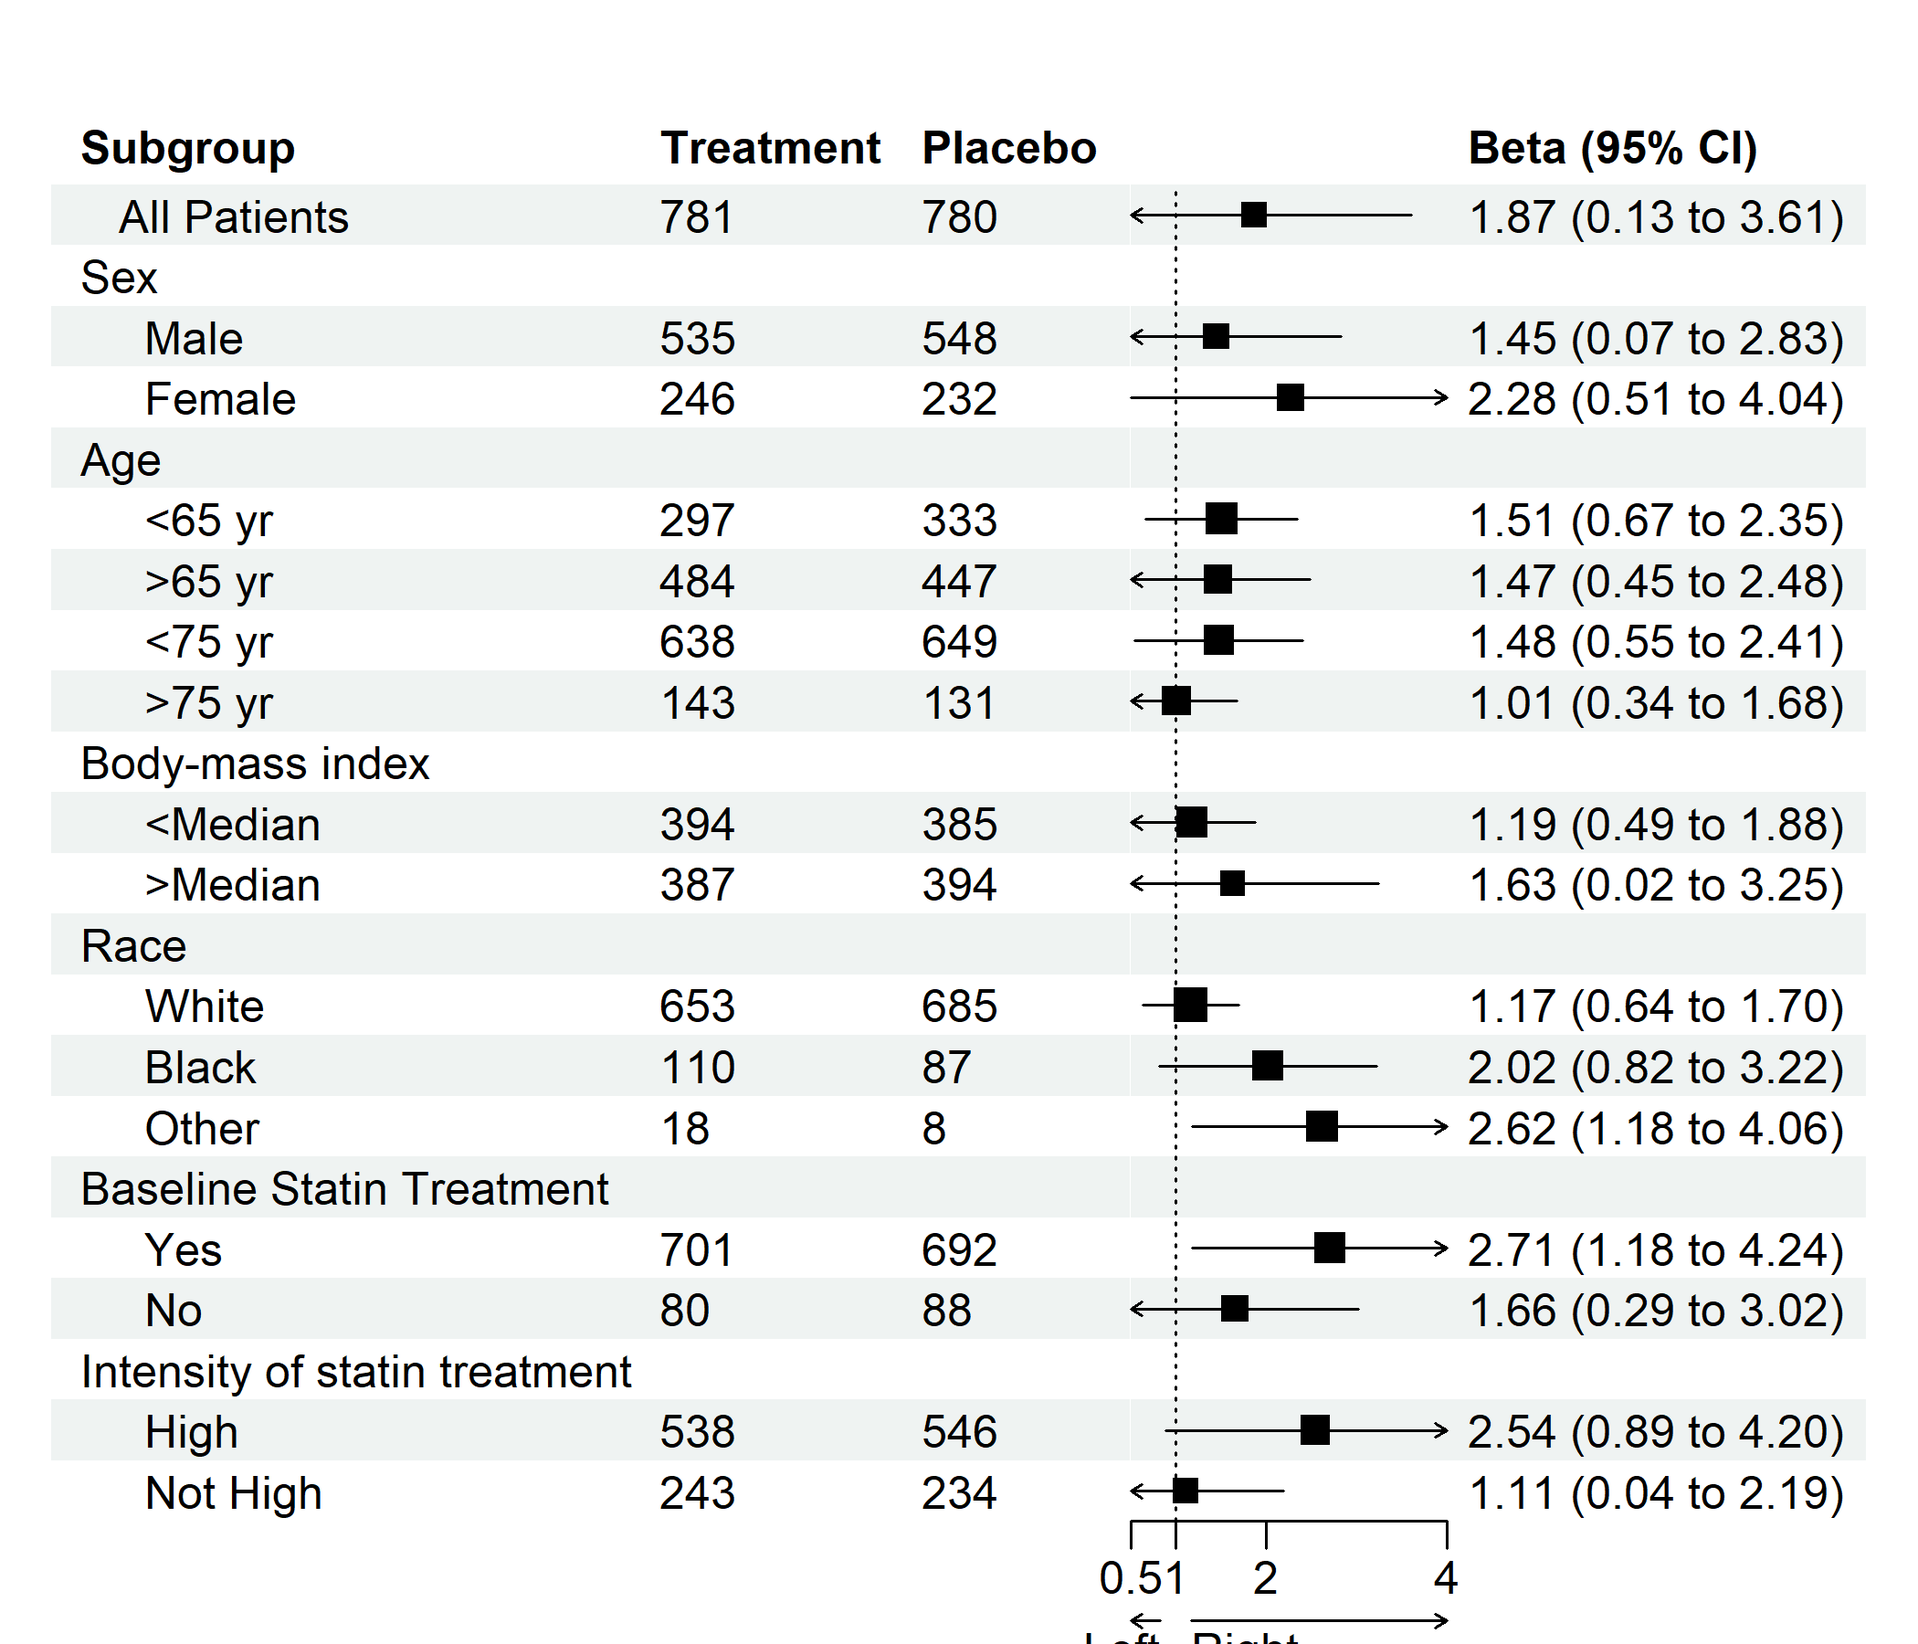
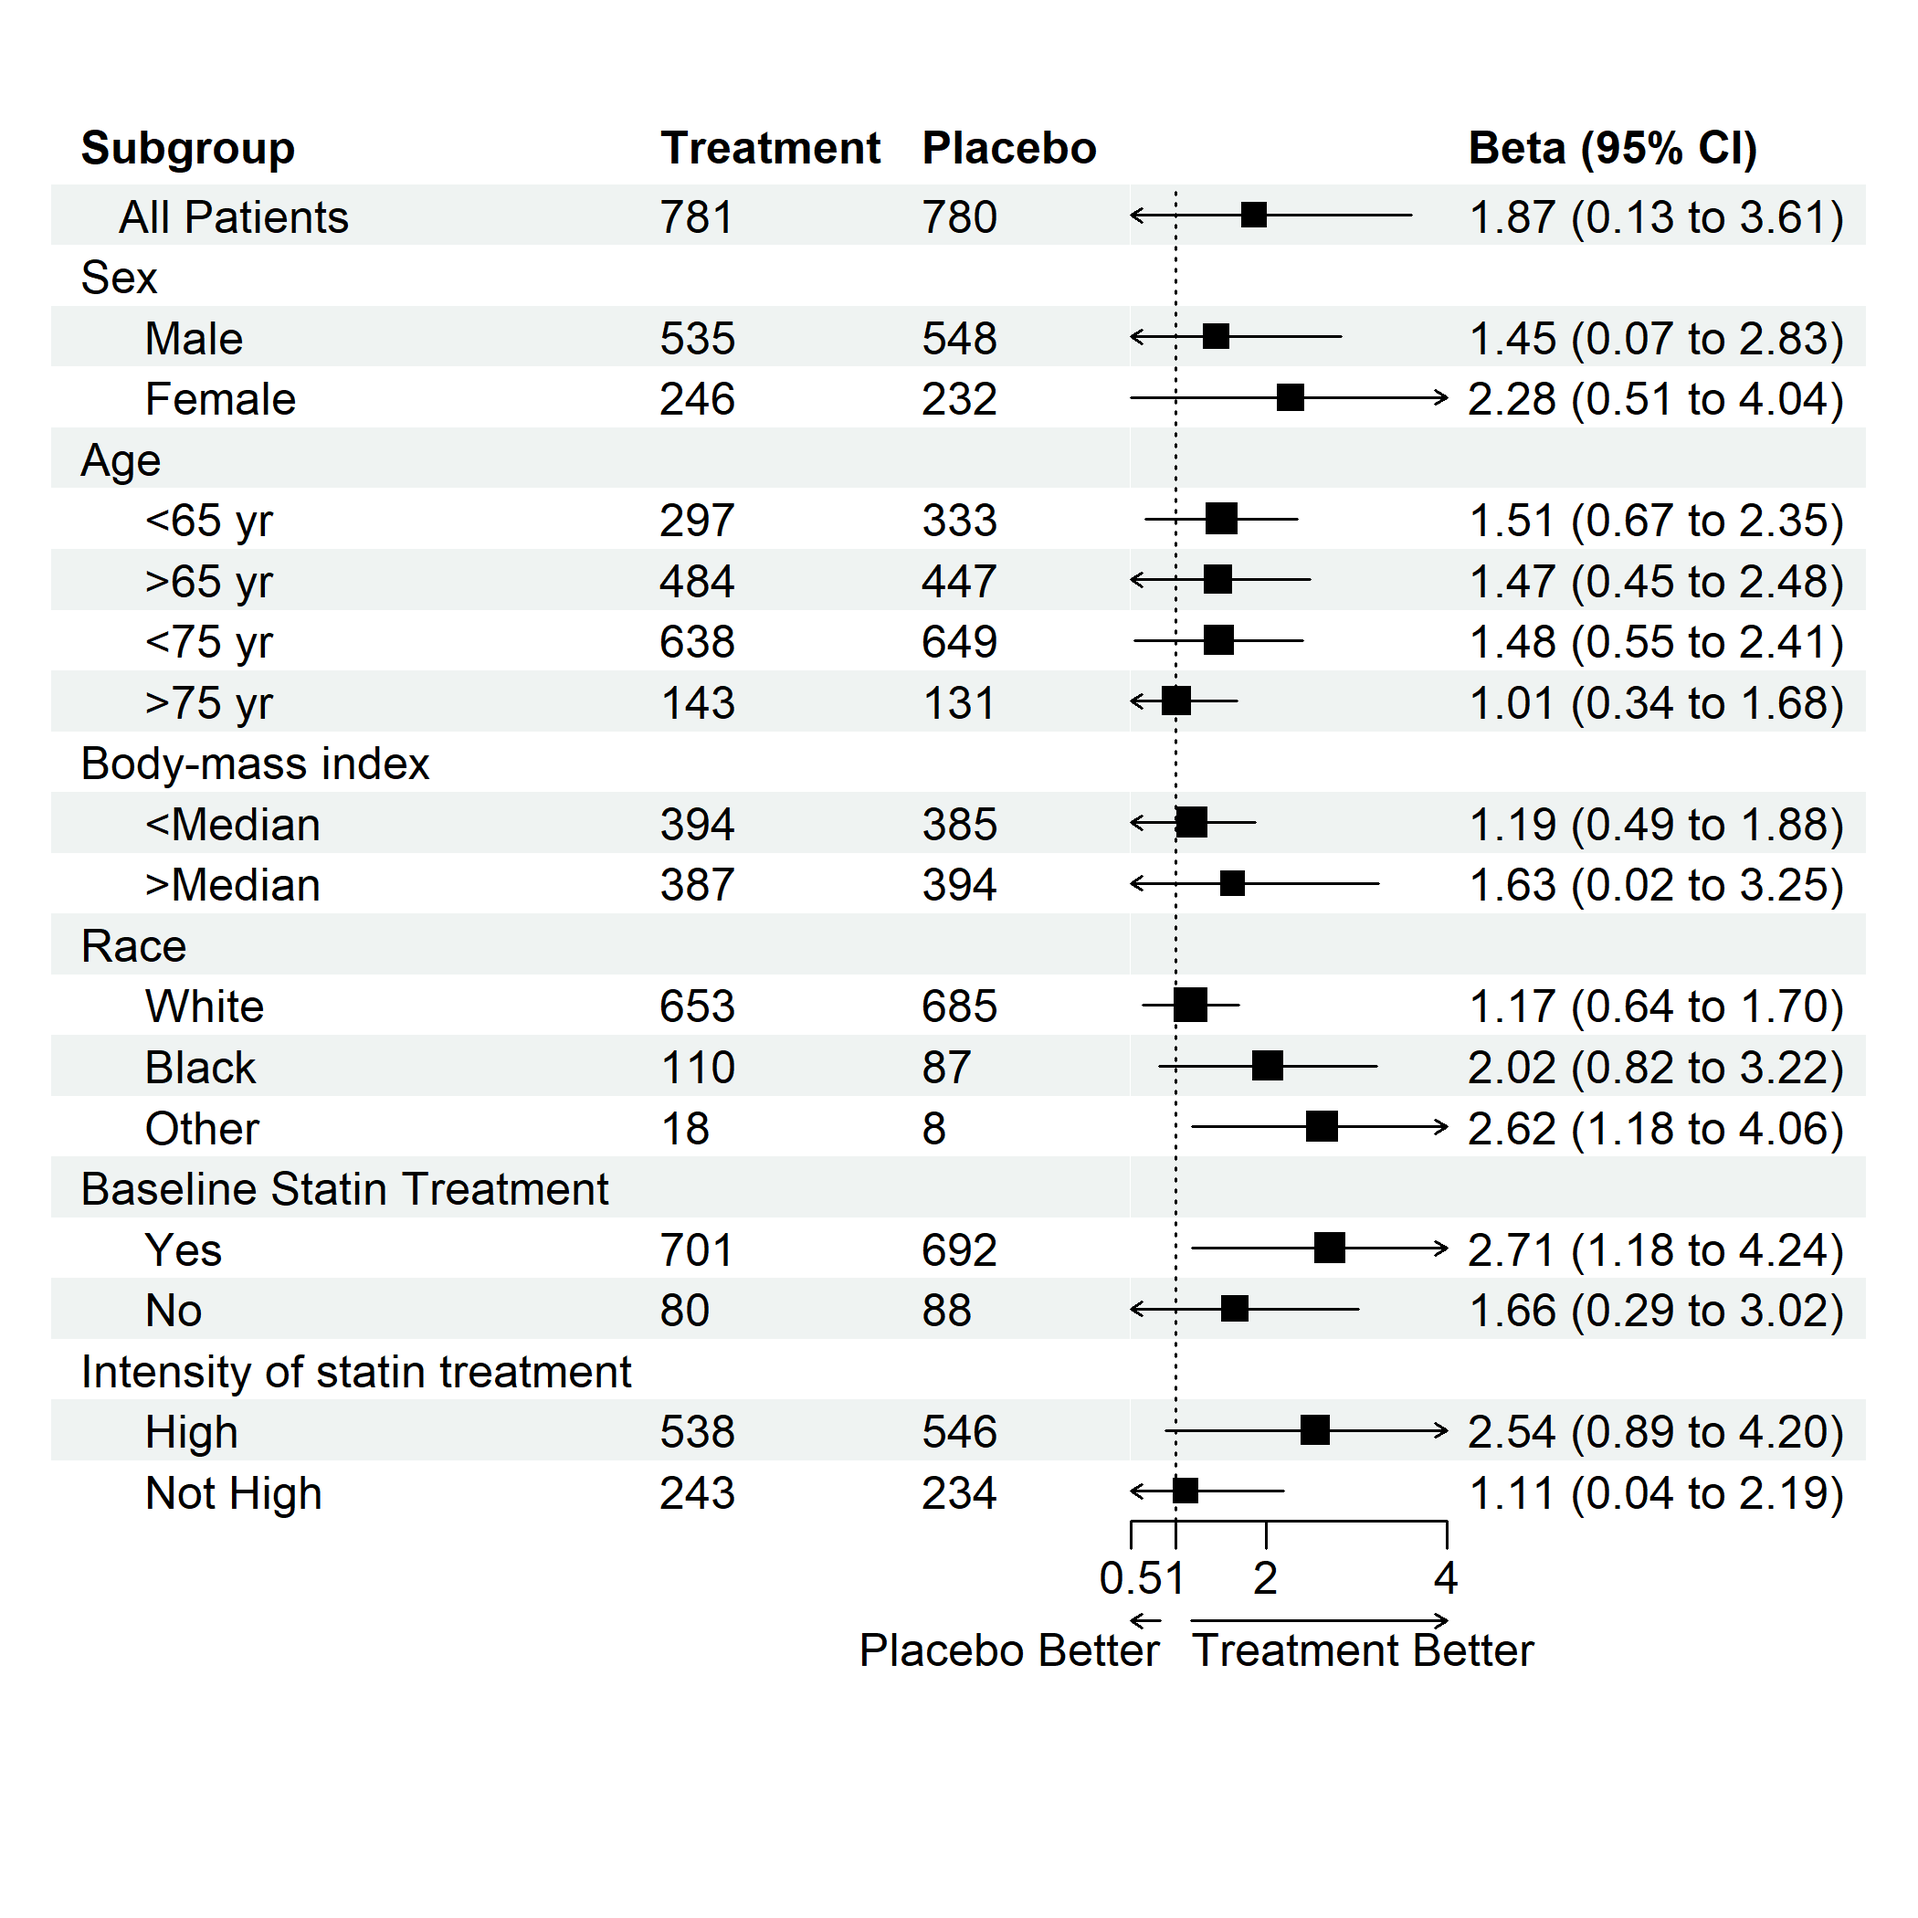
quick fix

diff --git a/README.md b/README.md
@@ -39,7 +39,7 @@ dt$Treatment <- ifelse(is.na(dt$Treatment), "", dt$Treatment)
 dt$Placebo <- ifelse(is.na(dt$Placebo), "", dt$Placebo)
 dt$se <- (log(dt$hi) - log(dt$est))/1.96
 
-# Add blank column for the forest plot
+# Add blank column for the forest plot to display CI
 dt$` ` <- paste(rep(" ", 5), collapse = " ")
 
 # Create confidence interval column to display
@@ -55,8 +55,10 @@ p <- forest(dt[,c(1:3, 8:9)],
             ci.col = 4,
             null.at = 1,
             ci.width = 2,
-            arrow.lab = c("Left", "Right"),
+            arrow.lab = c("Placebo Better", "Treatment Better"),
             tick.breaks = c(0.5, 1, 2, 4))
+
+# Draw plot
 grid::grid.newpage()
 grid::grid.draw(p)
 ```
